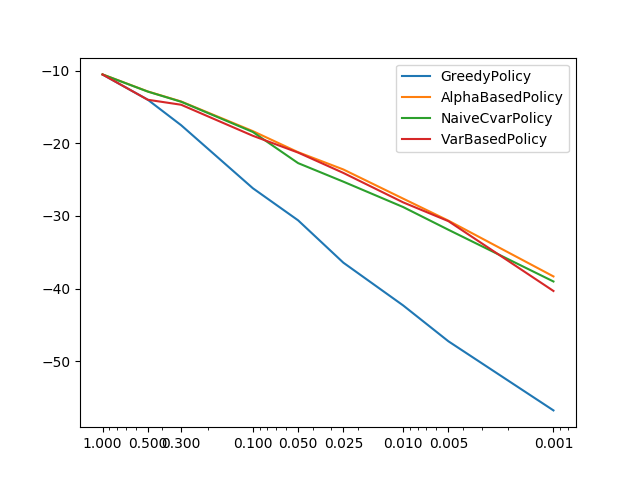
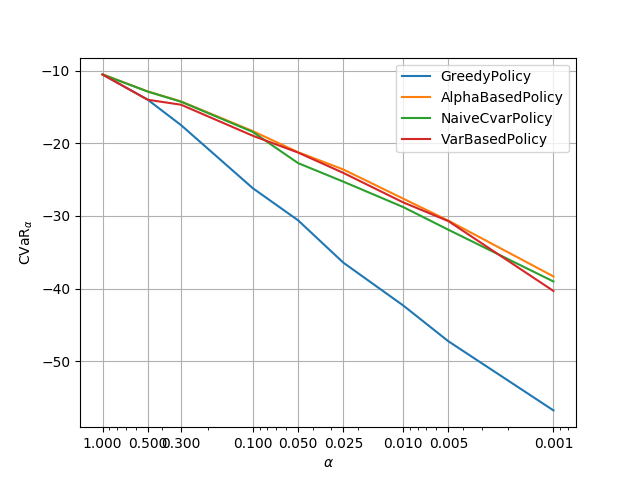
prettier pictures

diff --git a/distributional.py b/distributional.py
@@ -145,7 +145,7 @@ def policy_stats(policy, alpha, nb_epochs, verbose=True):
 def exhaustive_stats(*args):
     Q = policy_iteration()
 
-    alphas = np.array([1.0, 0.5, 0.3, 0.1, 0.05, 0.025, 0.01, 0.005, 0.001])
+    alphas = np.array([1.0, 0.5, 0.25, 0.1, 0.05, 0.025, 0.01, 0.005, 0.001])
 
     cvars = np.zeros((len(args), len(alphas)))
     names = []
@@ -227,7 +227,7 @@ if __name__ == '__main__':
     var_policy = VarBasedPolicy(Q, alpha=alpha)
     naive_cvar_policy = NaiveCvarPolicy(Q, alpha=alpha)
 
-    # exhaustive_stats(GreedyPolicy, AlphaBasedPolicy, NaiveCvarPolicy)
+    # exhaustive_stats(GreedyPolicy, AlphaBasedPolicy, NaiveCvarPolicy, VarBasedPolicy)
 
     # =============== PI stats
     nb_epochs = 100000

diff --git a/visual.py b/visual.py
@@ -50,7 +50,7 @@ class PlotMachine:
 def plot_cvars():
     import pickle
 
-    data = pickle.load(open('files/stats.pkl', 'rb'))
+    data = pickle.load(open('files/stats_risky_new.pkl', 'rb'))
 
     cvars = data['cvars']
     alphas = np.tile(data['alphas'], (len(cvars), 1))
@@ -60,8 +60,11 @@ def plot_cvars():
     ax.set_xticks(alphas[0])
     ax.get_xaxis().set_major_formatter(matplotlib.ticker.ScalarFormatter())
     ax.invert_xaxis()
+    ax.set_xlabel('$\\alpha$')
+    ax.set_ylabel('CVaR$_\\alpha$')
     # ax.set_ylim([-50, -10])
     ax.legend(data['names'])
+    ax.grid()
     plt.show()
 
 
